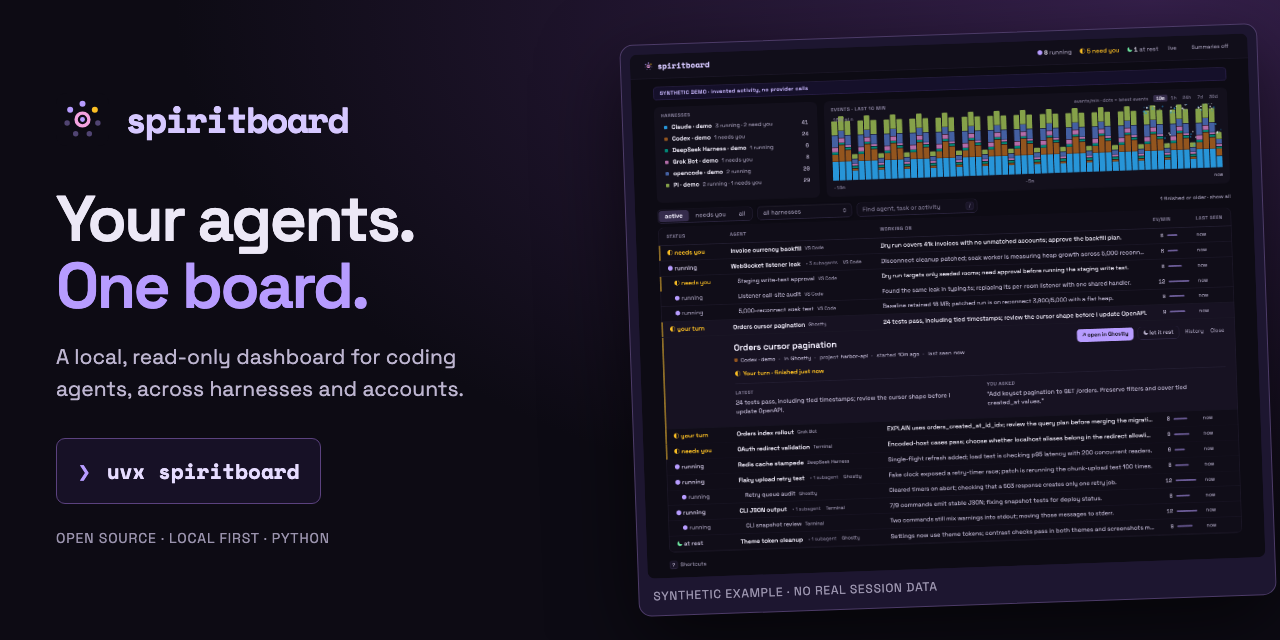
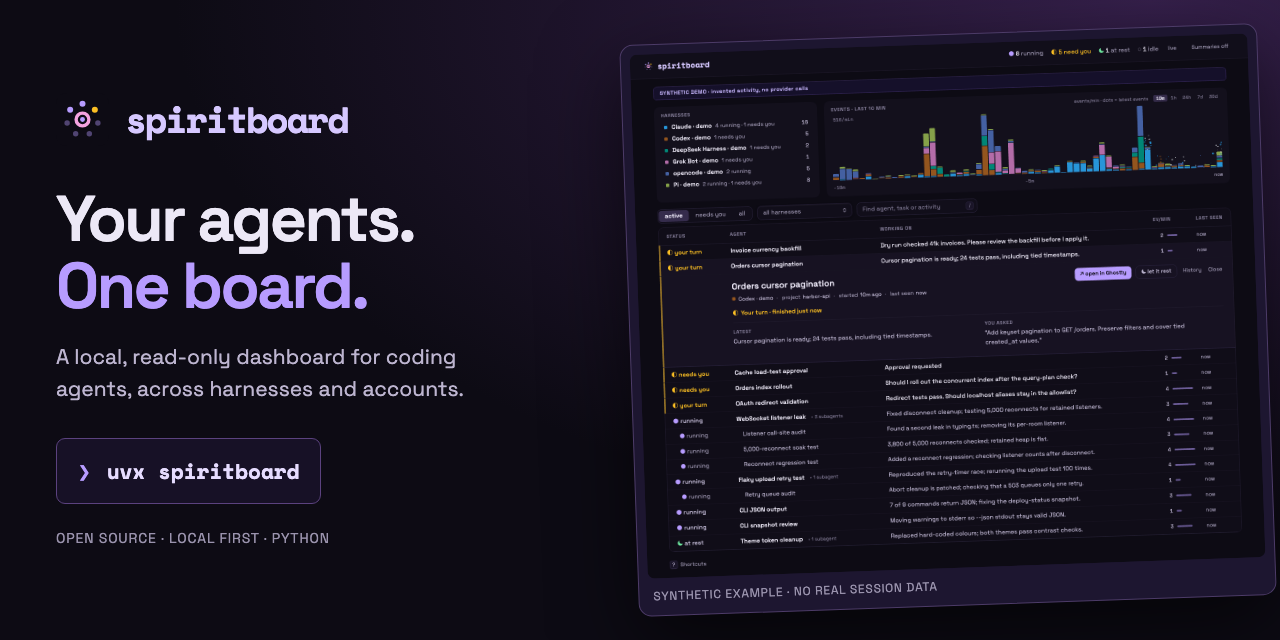
fix: align status labels and make demo captures faithful

diff --git a/src/spiritboard/static/style.css b/src/spiritboard/static/style.css
@@ -146,6 +146,7 @@ main { max-width: 1400px; margin: 0 auto; padding: 20px 32px; display: flex; fle
 .row-open:hover { color: var(--bright); background: #ffffff14; }
 .row-open.failed { background: var(--table); font-size: var(--fs-xs); white-space: nowrap; }
 .status { font-weight: 500; color: var(--soft); }
+.status .glyph { display: inline-block; width: 1em; text-align: center; }
 .status.g-needs { color: var(--wait); }
 .status.g-failed { color: var(--err); }
 .status.g-running .glyph { color: var(--run); } .status.g-rest .glyph { color: var(--rest); }

diff --git a/scripts/capture_demo.py b/scripts/capture_demo.py
@@ -9,6 +9,7 @@ import tempfile
 import threading
 from datetime import UTC, datetime, timedelta
 from pathlib import Path
+from random import Random
 
 from PIL import Image
 
@@ -20,8 +21,8 @@ from spiritboard.store import Store
 ROOT = Path(__file__).resolve().parents[1]
 
 
-APPS = {
-    "claude": "VS Code",
+FOCUS_APPS = {
+    "claude": "Ghostty",
     "codex": "Ghostty",
     "opencode": "Ghostty",
     "pi": "Terminal",
@@ -36,9 +37,11 @@ class CaptureCollector(Collector):
     def snapshot(self, at: float | None = None) -> dict:
         data = super().snapshot(at)
         data["mode"] = "demo"
-        data["profiles"] = [{"id": f"media-{kind}", "kind": kind, "label": "demo"} for kind in APPS]
+        data["profiles"] = [
+            {"id": f"media-{kind}", "kind": kind, "label": "demo"} for kind in FOCUS_APPS
+        ]
         for run in data["runs"]:
-            run["live"] = True if at is None else None
+            run["live"] = True if at is None and run["source"] != "grokbot" else None
         return data
 
     def focus_target(self, run_id: str) -> Target:
@@ -48,7 +51,7 @@ class CaptureCollector(Collector):
             and run["session_id"] == f"media-{run['source']}:observed"
             and run["state"] not in TERMINAL
         ):
-            return Target("focus", APPS[run["source"]])
+            return Target("focus", FOCUS_APPS[run["source"]])
         return UNSUPPORTED
 
 
@@ -59,10 +62,9 @@ def seed_board(store: Store) -> None:
             "orders",
             "codex",
             "Orders cursor pagination",
-            "Add keyset pagination to GET /orders. Preserve filters and cover "
-            "tied created_at values.",
-            "24 tests pass, including tied timestamps; review the cursor shape "
-            "before I update OpenAPI.",
+            "Add keyset pagination to GET /orders. Preserve filters and cover tied "
+            "created_at values.",
+            "Cursor pagination is ready; 24 tests pass, including tied timestamps.",
             "idle",
             "harbor-api",
             None,
@@ -71,10 +73,9 @@ def seed_board(store: Store) -> None:
             "reconnect",
             "claude",
             "WebSocket listener leak",
-            "Fix retained room listeners after reconnect; delegate the call-site "
-            "audit and soak test.",
-            "Disconnect cleanup patched; soak worker is measuring heap growth "
-            "across 5,000 reconnects.",
+            "Fix retained room listeners after reconnect; delegate the call-site audit "
+            "and soak test.",
+            "Fixed disconnect cleanup; testing 5,000 reconnects for retained listeners.",
             "idle",
             "relay-chat",
             None,
@@ -82,11 +83,11 @@ def seed_board(store: Store) -> None:
         (
             "staging",
             "claude",
-            "Staging write-test approval",
-            "Verify room cleanup against the seeded staging database after the soak test.",
-            "Dry run targets only seeded rooms; need approval before running the "
-            "staging write test.",
-            "waiting_user",
+            "Reconnect regression test",
+            "Add a regression for room cleanup after reconnect; verify listener counts "
+            "after disconnect.",
+            "Added a reconnect regression; checking listener counts after disconnect.",
+            "waiting_tool",
             "relay-chat",
             "reconnect",
         ),
@@ -94,10 +95,9 @@ def seed_board(store: Store) -> None:
             "listeners",
             "claude",
             "Listener call-site audit",
-            "Audit room listeners in socket.ts and typing.ts; replace per-room "
-            "handlers where needed.",
-            "Found the same leak in typing.ts; replacing its per-room listener "
-            "with one shared handler.",
+            "Audit room listeners in socket.ts and typing.ts; replace per-room handlers "
+            "where needed.",
+            "Found a second leak in typing.ts; removing its per-room listener.",
             "working",
             "relay-chat",
             "reconnect",
@@ -106,9 +106,9 @@ def seed_board(store: Store) -> None:
             "soak",
             "claude",
             "5,000-reconnect soak test",
-            "Add a regression that reconnects 5,000 times and compares retained "
-            "heap after collection.",
-            "Baseline retained 18 MB; patched run is on reconnect 3,800/5,000 with a flat heap.",
+            "Add a regression that reconnects 5,000 times and compares retained heap "
+            "after collection.",
+            "3,800 of 5,000 reconnects checked; retained heap is flat.",
             "working",
             "relay-chat",
             "reconnect",
@@ -117,10 +117,10 @@ def seed_board(store: Store) -> None:
             "currency",
             "claude",
             "Invoice currency backfill",
-            "Backfill invoice_currency from ledger entries; report unmatched "
-            "accounts before writing.",
-            "Dry run covers 41k invoices with no unmatched accounts; approve the backfill plan.",
-            "waiting_user",
+            "Backfill invoice_currency from ledger entries; report unmatched accounts "
+            "before writing.",
+            "Dry run checked 41k invoices. Please review the backfill before I apply it.",
+            "idle",
             "harbor-billing",
             None,
         ),
@@ -129,8 +129,7 @@ def seed_board(store: Store) -> None:
             "opencode",
             "Flaky upload retry test",
             "Reproduce the upload test flake with a fake clock; fix the retry-timer race.",
-            "Fake clock exposed a retry-timer race; patch is rerunning the "
-            "chunk-upload test 100 times.",
+            "Reproduced the retry-timer race; rerunning the upload test 100 times.",
             "working",
             "ingest-worker",
             None,
@@ -140,7 +139,7 @@ def seed_board(store: Store) -> None:
             "opencode",
             "Retry queue audit",
             "Check abort cleanup and make a 503 response enqueue exactly one retry job.",
-            "Cleared timers on abort; checking that a 503 response creates only one retry job.",
+            "Abort cleanup is patched; checking that a 503 queues only one retry.",
             "working",
             "ingest-worker",
             "upload",
@@ -149,10 +148,9 @@ def seed_board(store: Store) -> None:
             "tokens",
             "codex",
             "Theme token cleanup",
-            "Replace hard-coded settings colours with theme tokens and check "
-            "contrast in both themes.",
-            "Settings now use theme tokens; contrast checks pass in both themes "
-            "and screenshots match.",
+            "Replace hard-coded settings colours with theme tokens and check contrast in "
+            "both themes.",
+            "Replaced hard-coded colours; both themes pass contrast checks.",
             "idle",
             "atlas-web",
             None,
@@ -161,9 +159,9 @@ def seed_board(store: Store) -> None:
             "contrast",
             "codex",
             "Theme contrast checks",
-            "Verify focus rings and labels meet contrast targets in light and dark mode.",
+            "",
             "Focus rings and labels pass contrast checks in both themes.",
-            "completed",
+            "idle",
             "atlas-web",
             "tokens",
         ),
@@ -172,7 +170,7 @@ def seed_board(store: Store) -> None:
             "pi",
             "CLI JSON output",
             "Add --json output to every inspect command; keep diagnostics on stderr.",
-            "7/9 commands emit stable JSON; fixing snapshot tests for deploy status.",
+            "7 of 9 commands return JSON; fixing the deploy-status snapshot.",
             "working",
             "forge-cli",
             None,
@@ -182,32 +180,30 @@ def seed_board(store: Store) -> None:
             "pi",
             "CLI snapshot review",
             "Check stdout snapshots for every --json command and keep warnings on stderr.",
-            "Two commands still mix warnings into stdout; moving those messages to stderr.",
+            "Moving warnings to stderr so --json stdout stays valid JSON.",
             "working",
             "forge-cli",
-            "json",
+            None,
         ),
         (
             "oauth",
             "pi",
             "OAuth redirect validation",
-            "Restrict callback redirects to the configured origin; cover encoded "
-            "and mixed-case URLs.",
-            "Encoded-host cases pass; choose whether localhost aliases belong in "
-            "the redirect allowlist.",
-            "waiting_user",
+            "Restrict callback redirects to the configured origin; cover encoded and "
+            "mixed-case URLs.",
+            "Redirect tests pass. Should localhost aliases stay in the allowlist?",
+            "idle",
             "atlas-auth",
             None,
         ),
         (
             "cache",
             "dsh",
-            "Redis cache stampede",
-            "Add single-flight cache refresh; benchmark 200 concurrent readers "
-            "at the expiry boundary.",
-            "Single-flight refresh added; load test is checking p95 latency with "
-            "200 concurrent readers.",
-            "working",
+            "Cache load-test approval",
+            "Add single-flight cache refresh; benchmark 200 concurrent readers at the "
+            "expiry boundary.",
+            "Approval requested",
+            "waiting_user",
             "harbor-api",
             None,
         ),
@@ -215,12 +211,11 @@ def seed_board(store: Store) -> None:
             "index",
             "grokbot",
             "Orders index rollout",
-            "Review the concurrent orders index migration and compare EXPLAIN "
-            "plans for list queries.",
-            "EXPLAIN uses orders_created_at_id_idx; review the query plan before "
-            "merging the migration.",
-            "idle",
-            "harbor-api",
+            "Review the concurrent orders index migration and compare EXPLAIN plans for "
+            "list queries.",
+            "Should I roll out the concurrent index after the query-plan check?",
+            "waiting_user",
+            "",
             None,
         ),
     )
@@ -240,17 +235,33 @@ def seed_board(store: Store) -> None:
             "state": state,
             "project": project,
             "started_at": started.isoformat(),
-            "app": APPS[kind],
             "evidence": "invented observation for promotional media",
         }
         observations.append(observation)
-    for bucket in range(60):
-        stamp = started + timedelta(seconds=bucket * 10)
-        for index, observation in enumerate(observations):
-            for offset in range((bucket * (index + 3) + index) % 4):
-                store.observe(
-                    {**observation, "last_seen": (stamp + timedelta(seconds=offset)).isoformat()}
-                )
+    random = Random(81)
+    history: list[tuple[float, dict[str, str | None]]] = []
+    for observation in observations:
+        store.observe({**observation, "state": "working", "last_seen": started.isoformat()})
+        for _ in range(random.randint(8, 24)):
+            history.append((random.uniform(0, 598), observation))
+    for _ in range(9):
+        center = random.uniform(15, 580)
+        spread = random.uniform(3, 16)
+        for kind in random.sample(list(FOCUS_APPS), random.randint(1, 4)):
+            workers = [item for item in observations if item["source"] == kind]
+            peak = center + random.uniform(-12, 12)
+            for _ in range(random.randint(14, 55)):
+                offset = random.gauss(peak, spread)
+                if 0 <= offset < 599:
+                    history.append((offset, random.choice(workers)))
+    for offset, observation in sorted(history, key=lambda item: item[0]):
+        store.observe(
+            {
+                **observation,
+                "state": "working",
+                "last_seen": (started + timedelta(seconds=offset)).isoformat(),
+            }
+        )
     current = datetime.now(UTC).isoformat()
     for observation in observations:
         store.observe({**observation, "last_seen": current})

diff --git a/docs/media/README.md b/docs/media/README.md
@@ -38,11 +38,19 @@ Profiles, liveness, app targets, projects, requests, and replies are all synthet
 capture-only collector returns harmless app targets with no activation commands so the
 real UI can display its **open** buttons without inspecting or launching any app. Browser
 capture also rejects non-GET requests. The script seeds ten minutes of invented observation
-history to fill the chart; it does not record real activity. Summaries remain off.
+history with a fixed random seed: independent bursts, uneven peaks, jittered timestamps,
+and quiet gaps. It does not record real activity. Summaries remain off.
+
+Fixtures follow native adapter output: terminal/editor names appear only in focus targets,
+not desktop-app badges. Claude and Pi questions end in **your turn**; DeepSeek approvals
+and Grok prompts can show **needs you**. Pi sessions have no inferred parent, Codex turn
+completion stays idle, and Grok has no project or known process liveness.
 
 Capture assertions require both session actions to be visible and enabled, and check that
 parents with running workers say **running**, never **your turn**. The expanded finished-turn
 session has no running children and legitimately offers **let it rest**.
+Real-browser geometry checks also require status symbols and text to align at the same
+tree depth. Subagents retain the product's normal indentation.
 
 Fifty sampled dashboard frames play at 200 ms each (5 fps), totaling exactly 10 seconds.
 This is an interaction demonstration, not a real-time performance measurement.
